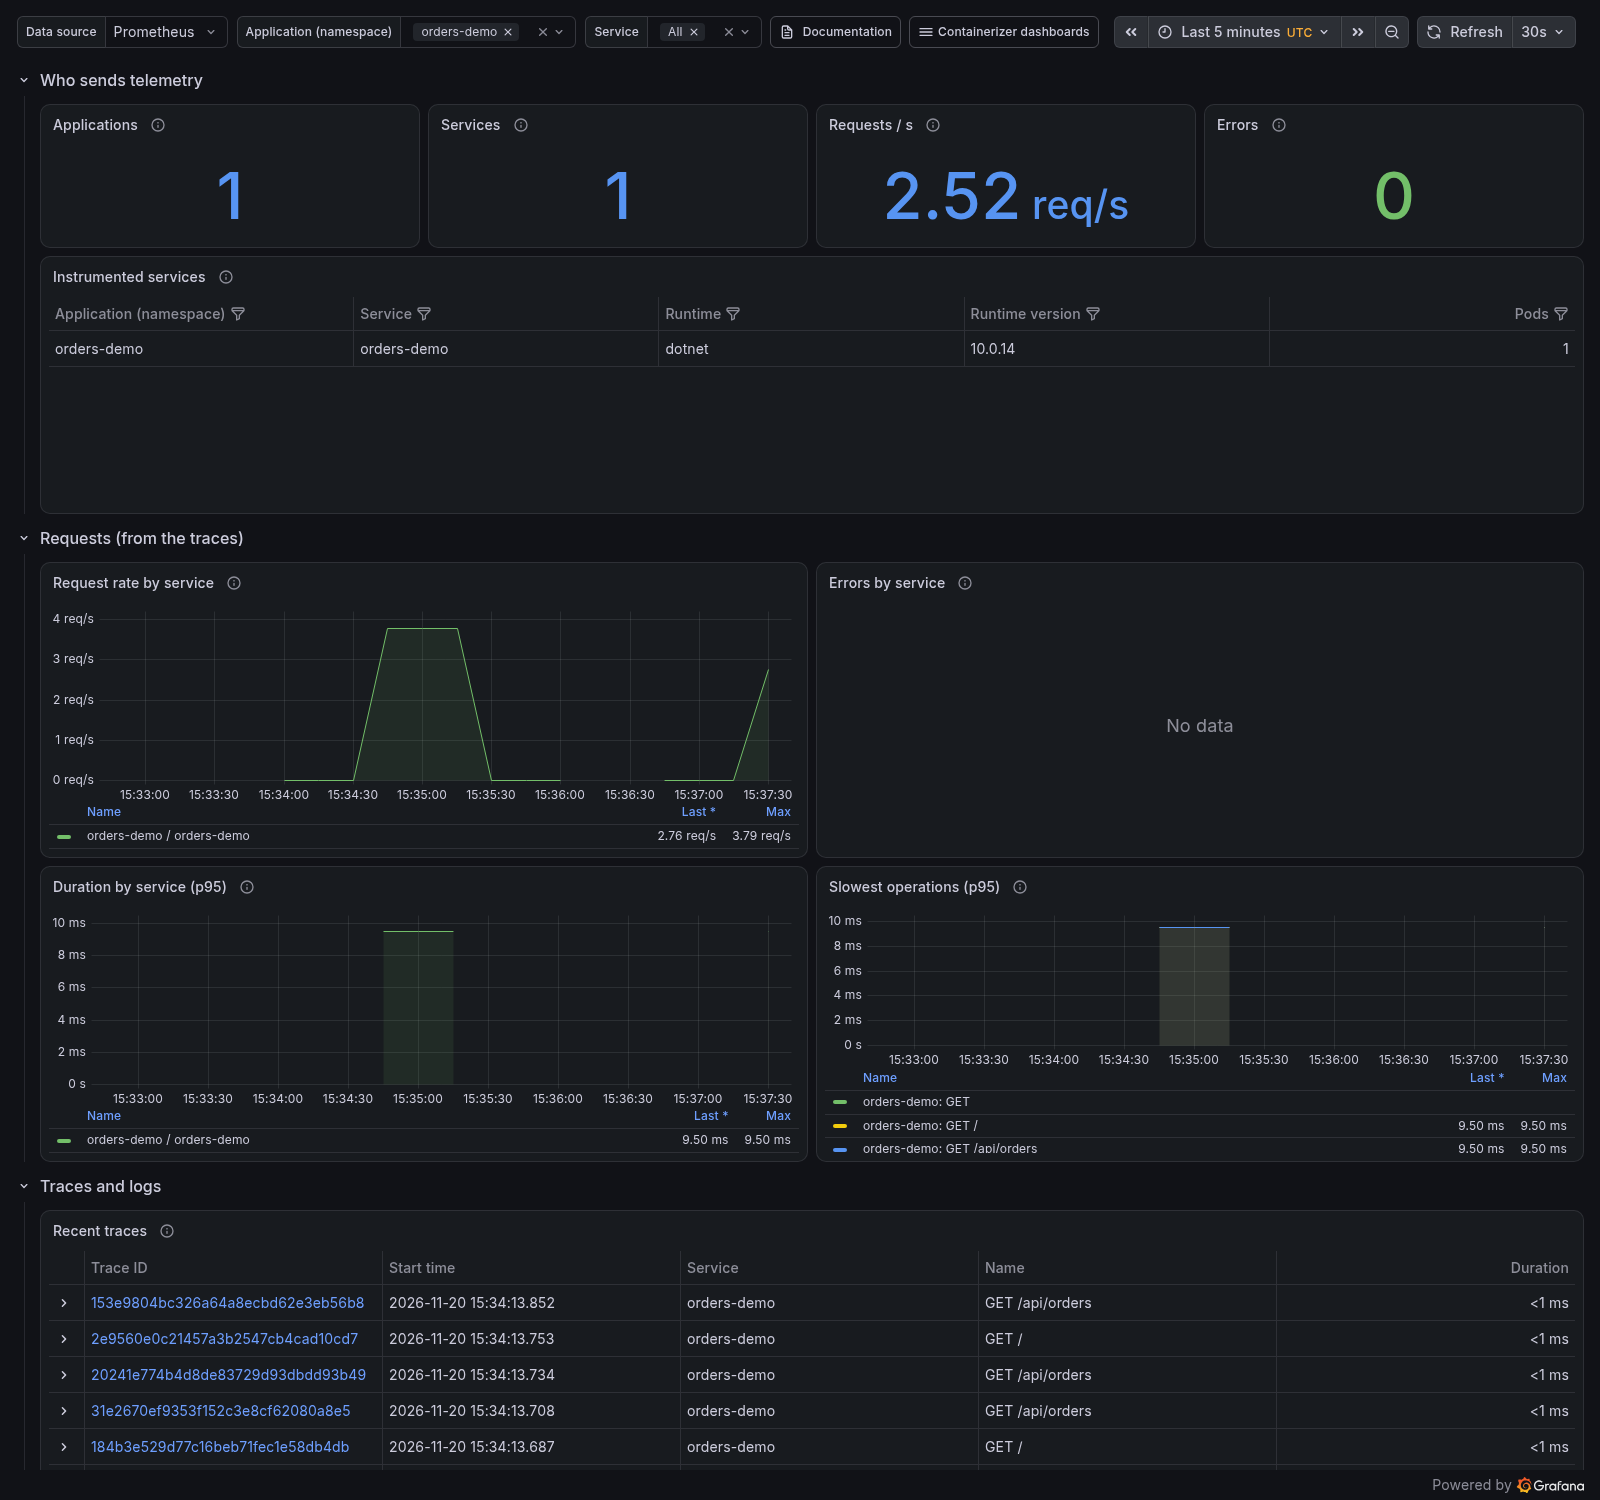
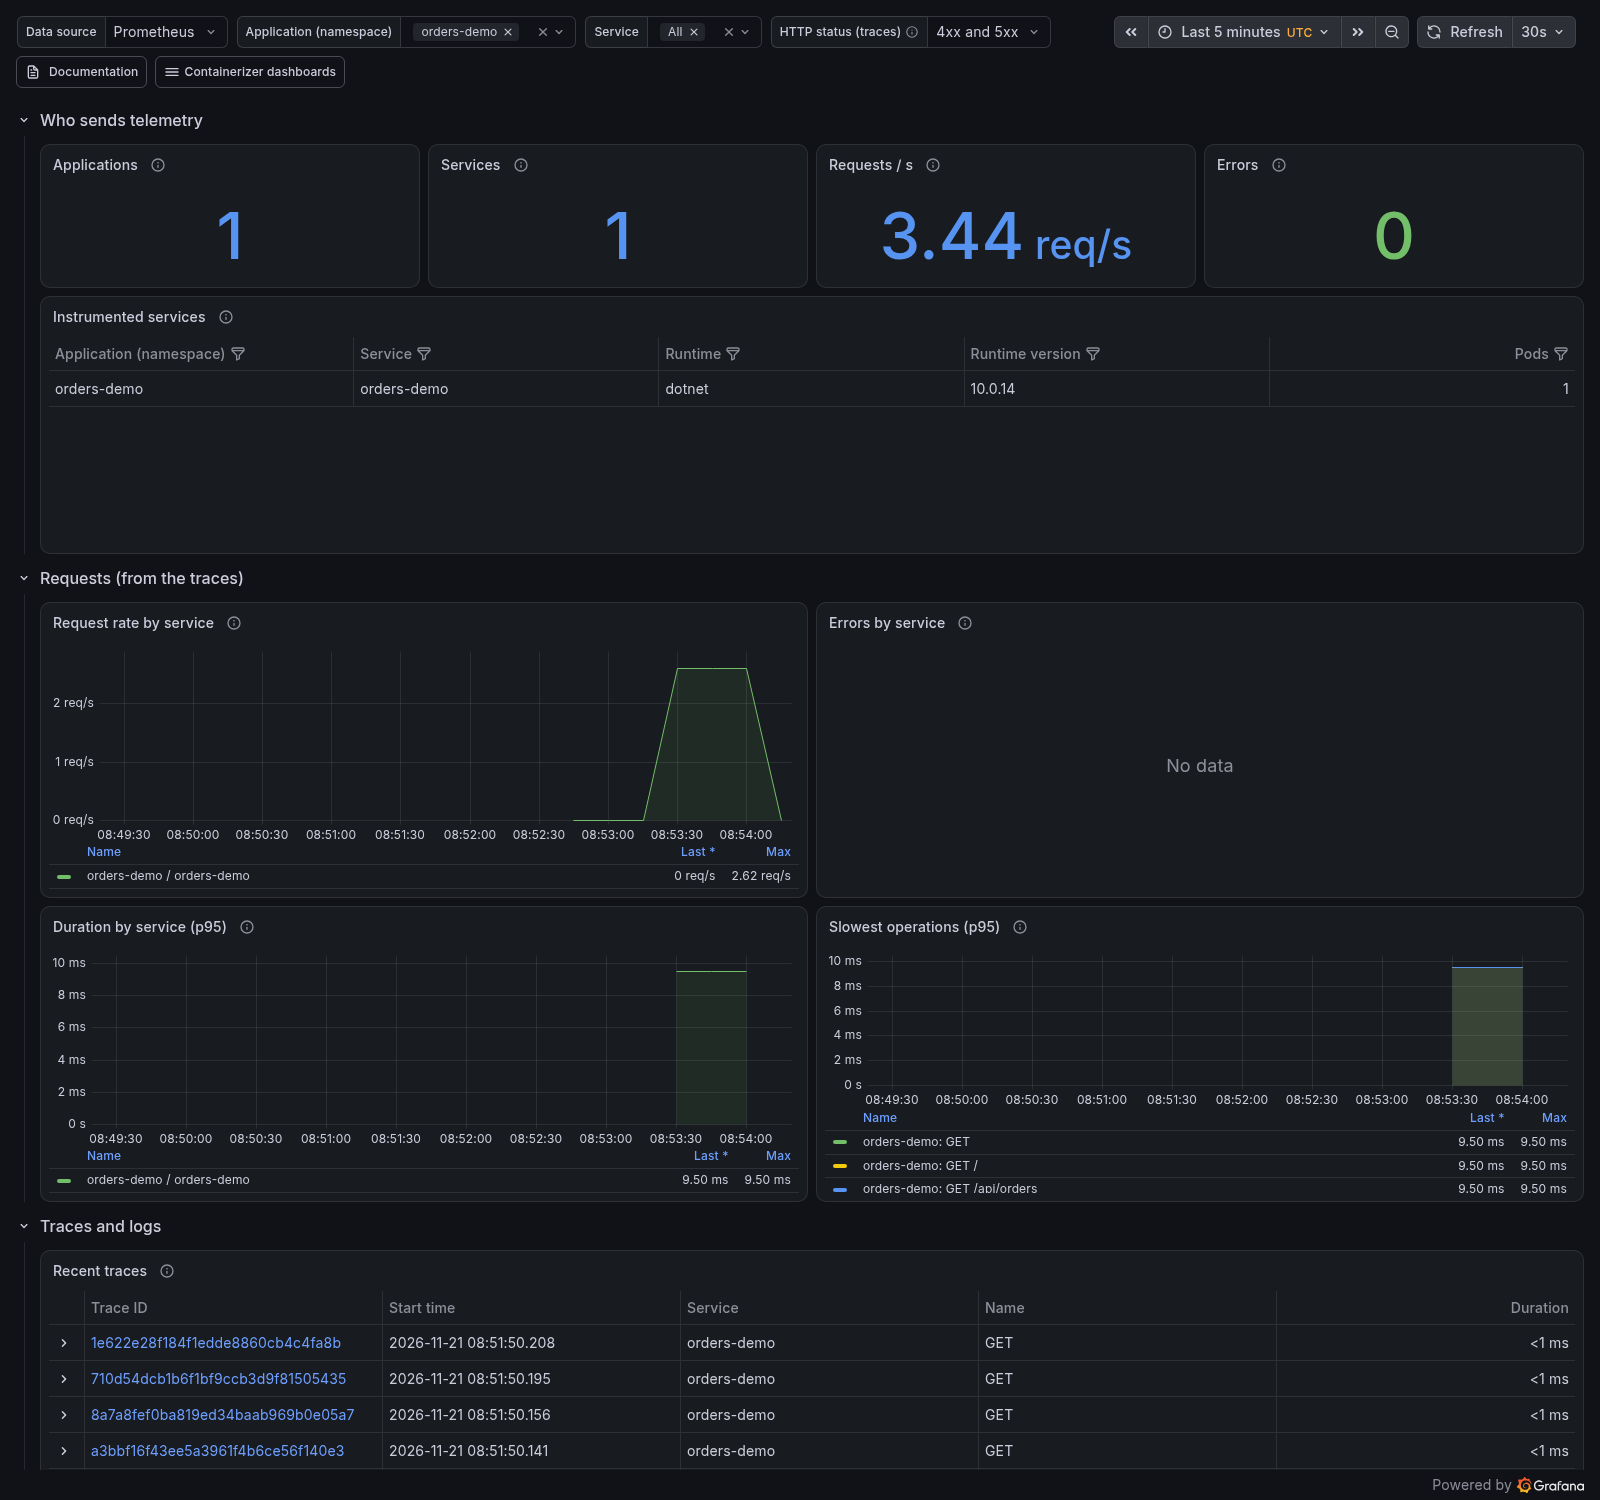
0.53.0: Grafana's application telemetry filters the traces by HTTP status
The dashboard gets the choice "HTTP status (traces)": a class (2xx, 3xx, 4xx, 5xx, 4xx and 5xx) or one of the
common codes. Recent traces lists the traces with a span that answered with it (both names of the attribute:
http.response.status_code and the older http.status_code, which the Python agent still sends), and a row opens
to the matching spans with their status.

Claude-Session: https://claude.ai/code/session_01HpAsQdnXgKgP38ZS8pvyss

diff --git a/tests/test_telemetry.py b/tests/test_telemetry.py
@@ -397,6 +397,15 @@ def test_the_appliance_collects_and_shows_what_the_rules_send_to():
     dash = json.loads((root / "monitoring/grafana/containerizer-telemetry.json").read_text())
     assert f"d/{dash['uid']}/" in at.DASHBOARD and "containerizer" in dash["tags"]
     assert {v["name"] for v in dash["templating"]["list"]} >= {"namespace", "service"}
+    # the traces by HTTP status: a choice of TraceQL conditions (both names of the attribute: the agents differ),
+    # none with the comma that separates the choices, and "All" that filters nothing
+    status = next(v for v in dash["templating"]["list"] if v["name"] == "status")
+    choices = dict(c.split(" : ") for c in status["query"].split(","))
+    assert choices["All"] == "true" and [o["value"] for o in status["options"]] == list(choices.values())
+    assert all("span.http.response.status_code" in v and "span.http.status_code" in v
+               for k, v in choices.items() if k != "All")
+    traces = next(p for p in dash["panels"] if p.get("datasource", {}).get("type") == "tempo")
+    assert "${status:raw}" in traces["targets"][0]["query"]
     ids = [p["id"] for p in dash["panels"]]
     assert len(ids) == len(set(ids))
     cells = set()

diff --git a/containerizer/__init__.py b/containerizer/__init__.py
@@ -1,2 +1,2 @@
 # Released versions are tagged vX.Y.Z; keep this in step with the tag (see CHANGELOG.md).
-__version__ = "0.52.0"
+__version__ = "0.53.0"

diff --git a/docs/telemetry.md b/docs/telemetry.md
@@ -110,7 +110,9 @@ The appliance's sandbox cluster runs what receives the telemetry, in the namespa
 Grafana (`https://<appliance>/grafana/`) has the data sources **Tempo** and **Loki** next to Prometheus, and the
 dashboard **Containerizer: application telemetry**: which applications and services send, their request rate,
 errors and duration, the latest traces and the logs. A trace opens with its spans, a span links to its log lines,
-and a log line with a trace links back. **Open its telemetry in Grafana** on the application's results page opens
+and a log line with a trace links back. **HTTP status (traces)** at the top keeps the traces with a span that
+answered with that status: a class (2xx, 3xx, 4xx, 5xx, 4xx and 5xx) or one of the common codes (404, 500, ...);
+a row of *Recent traces* opens to the matching spans with their status. **Open its telemetry in Grafana** on the application's results page opens
 the dashboard for that application.
 
 ![Grafana: the application telemetry dashboard](images/grafana-telemetry-dashboard.png#only-light)

diff --git a/CHANGELOG.md b/CHANGELOG.md
@@ -8,6 +8,15 @@ yourself: a tag push starts the release too). Each release publishes the applian
 release (X.Y.Z, Z > 0) must not change the OS image (`appliance/`, `monitoring/`) since X.Y.0: appliances install
 it as an app update, without an OS upgrade. OS changes go into a minor or major release.
 
+## 0.53.0 (2026-11-21)
+
+A minor release: it changes the OS image (a Grafana dashboard), so appliances get it as an OS upgrade.
+
+- **Grafana, application telemetry: the traces can be filtered by HTTP status.** The dashboard has the choice
+  **HTTP status (traces)**: a class (2xx, 3xx, 4xx, 5xx, 4xx and 5xx) or one of the common codes (404, 500, ...).
+  *Recent traces* then lists only the traces with a span that answered with that status, and a row opens to the
+  matching spans with their status ([docs/telemetry.md](docs/telemetry.md#grafana)).
+
 ## 0.52.0 (2026-11-20)
 
 A minor release: it changes the OS image (the sandbox's telemetry services, Prometheus and Grafana settings), so
